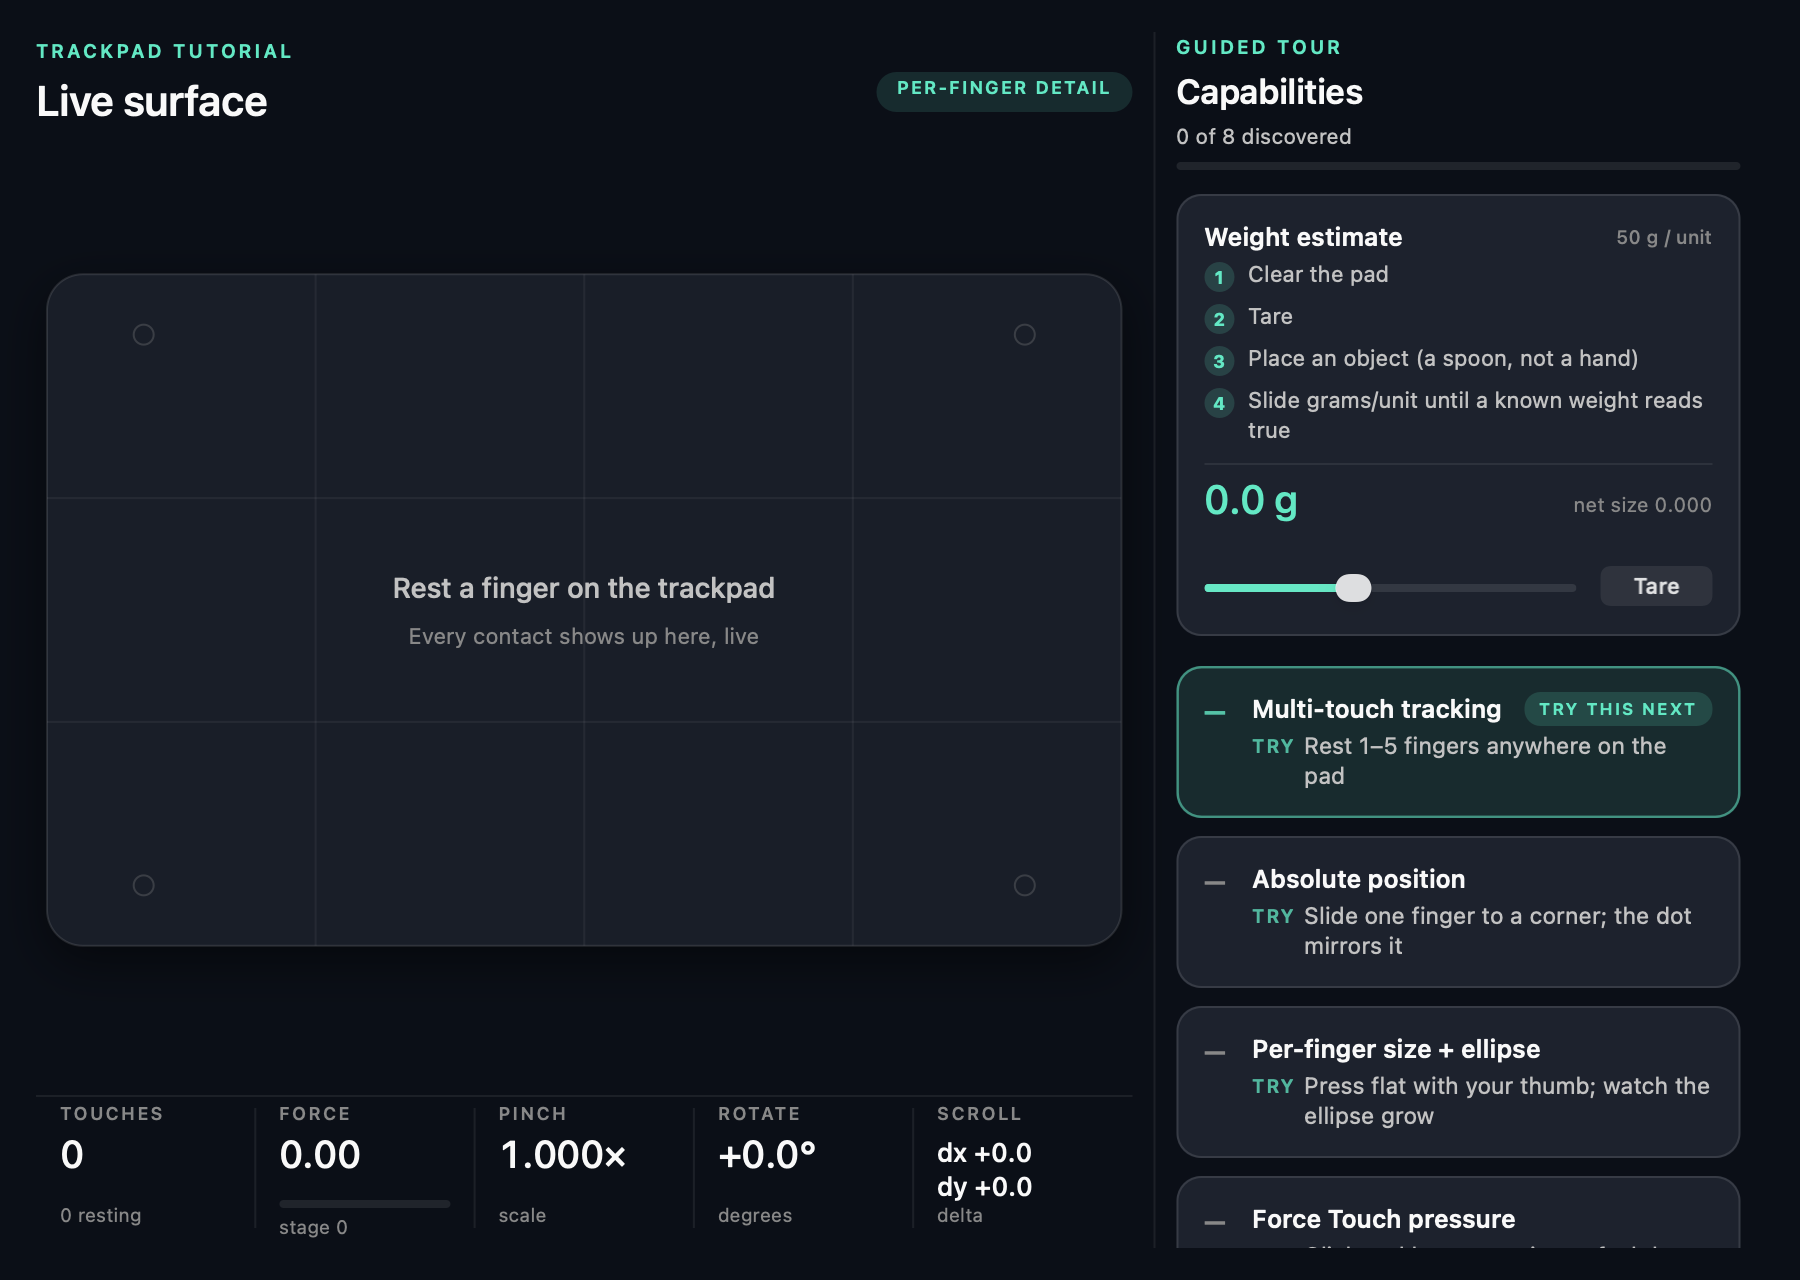
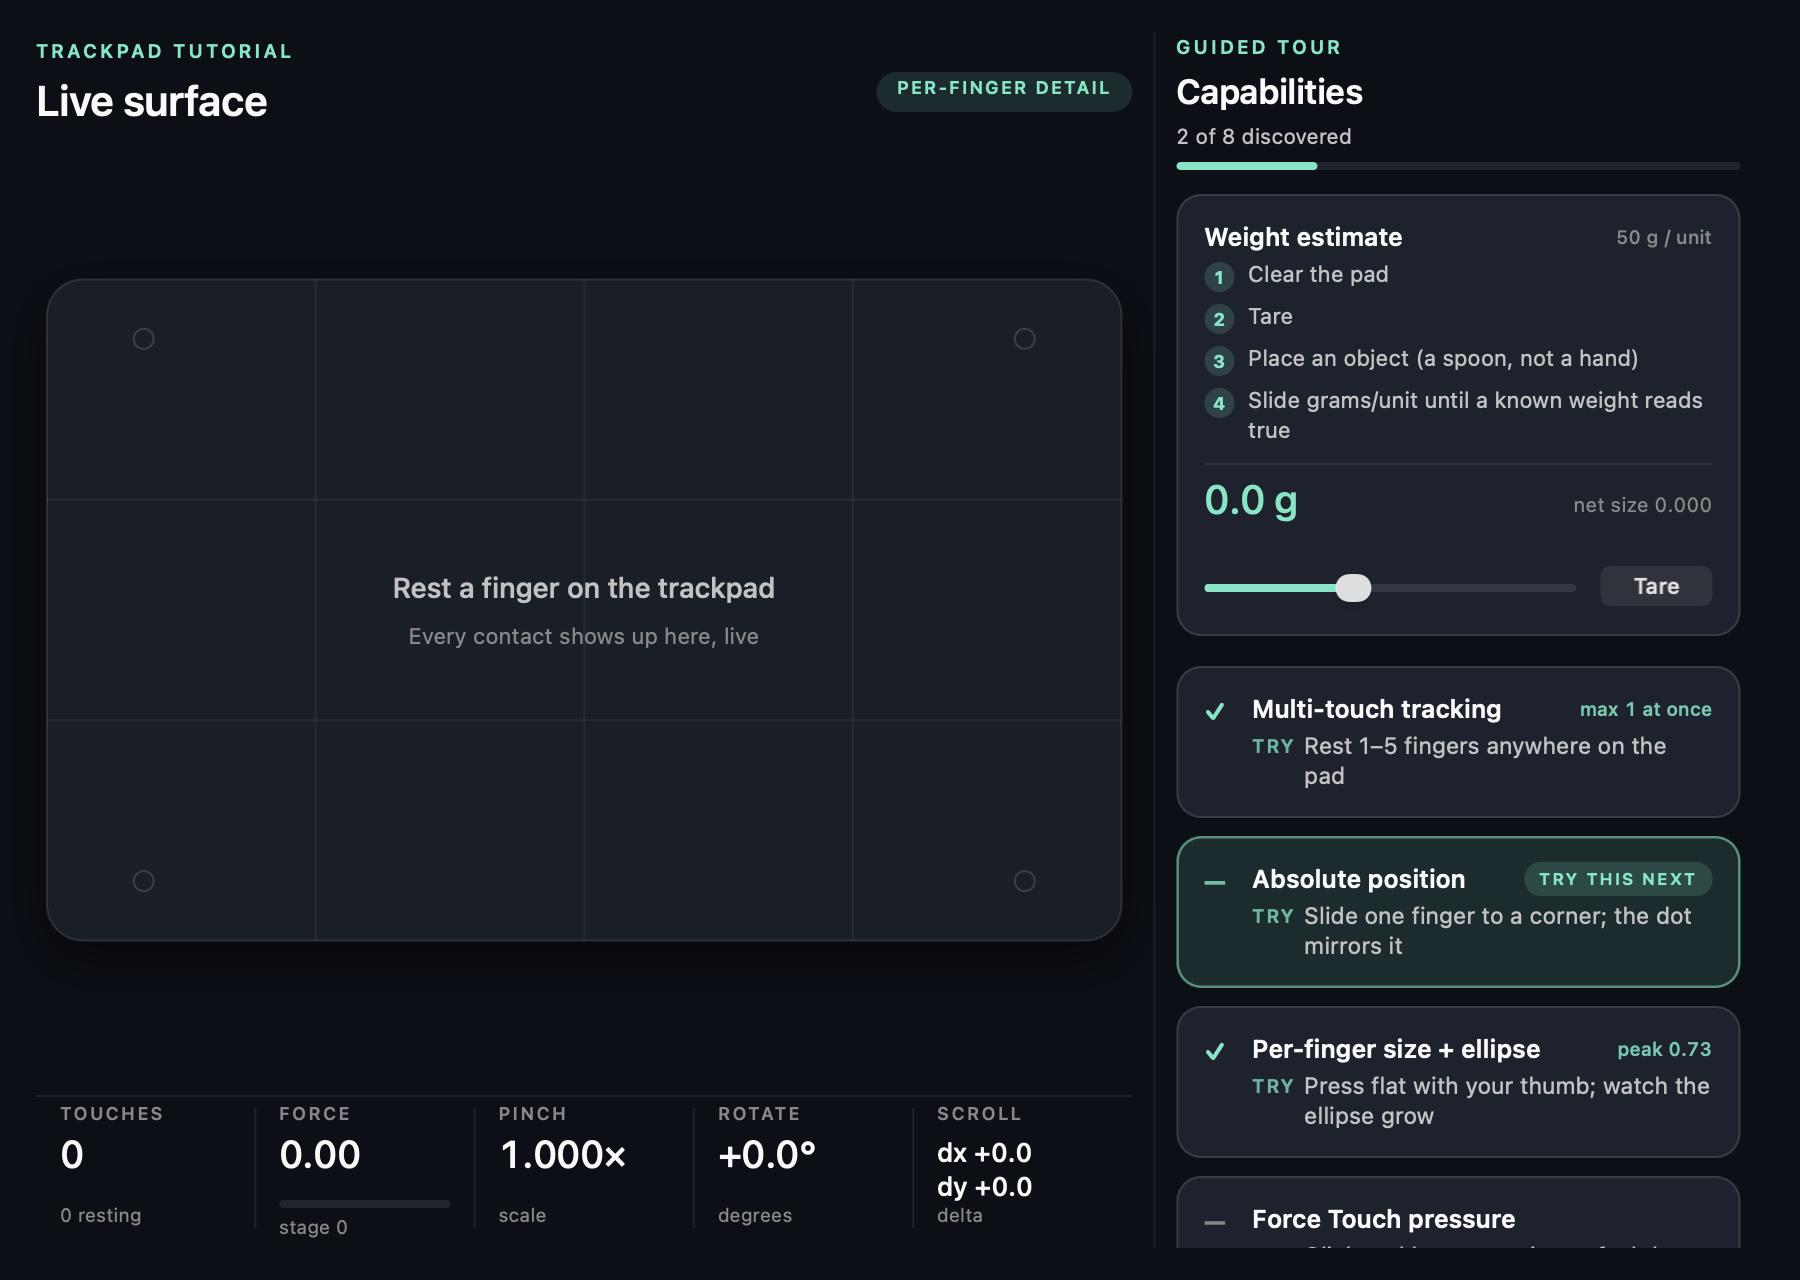
Landing page: tighter copy (EN+ZH), fresh screenshots, ⌘G AI redraw card
Claude-Session: https://claude.ai/code/session_01GxrdzJSWBv3dMFxuorTvym

diff --git a/docs/index.html b/docs/index.html
@@ -393,7 +393,7 @@ footer{border-top:1px solid var(--line);padding:56px 0 72px}
     <div>
       <p class="eyebrow" data-i18n="hero.eyebrow">macOS 13+ · Swift · AppKit · MIT</p>
       <h1><span data-i18n="hero.h1a">Your trackpad has been a drawing surface</span> <span class="l2" data-i18n="hero.h1b">this whole time.</span></h1>
-      <p class="lede sub" data-i18n="hero.lede">Trackpad Studio reads the raw multi-touch stream macOS keeps to itself: where every finger is, how hard it presses, how wide it lands. Draw at the exact spot your finger is touching — then poke around and find out what else the pad has been reporting all along.</p>
+      <p class="lede sub" data-i18n="hero.lede">macOS knows where every finger is, how hard it presses, how wide it lands — it just never shows you. Trackpad Studio reads that stream and turns the pad into a canvas: ink lands exactly where your finger touches.</p>
       <div class="cta">
         <a class="btn mint" href="#install" data-i18n="hero.cta1">Download for Mac</a>
         <a class="btn" href="https://github.com/ZaynJarvis/trackpad-studio" rel="noopener" data-i18n="hero.cta2">Read the source</a>
@@ -427,7 +427,7 @@ footer{border-top:1px solid var(--line);padding:56px 0 72px}
       <p class="eyebrow r" data-i18n="arg.eyebrow">The web only gets a mouse</p>
       <h2 data-i18n="arg.h2">Drag inside the box.</h2>
       <p class="sub" data-i18n="arg.p1">This is the whole of what a browser receives from your trackpad: one point, no pressure, relative motion. Put a second finger down — the counter stays at 1.</p>
-      <p class="sub" data-i18n="arg.p2">macOS knows far more, and it hands that over only to native code: per-finger absolute coordinates from NSTouch, contact ellipses and capacitive size from a private framework, pressure from Force Touch. That gap is the entire reason this app exists.</p>
+      <p class="sub" data-i18n="arg.p2">The real data goes only to native code: absolute per-finger coordinates, contact ellipses, Force Touch pressure. That gap is why this app exists.</p>
     </div>
     <div class="pad-demo frame">
       <span class="brk"></span>
@@ -457,7 +457,7 @@ footer{border-top:1px solid var(--line);padding:56px 0 72px}
       <p class="eyebrow" data-i18n="caps.eyebrow">Guided tour · 8 capabilities</p>
       <h2 data-i18n="caps.h2">What your trackpad can secretly do</h2>
     </div>
-    <p style="max-width:46ch;font-size:.94rem" data-i18n="caps.sub">The app ships a tutorial panel with one card per capability. Each stays dashed until you actually perform the gesture, then ticks over to ✓. Nothing is unlocked by reading.</p>
+    <p style="max-width:46ch;font-size:.94rem" data-i18n="caps.sub">One card per capability. Each stays dashed until you actually perform the gesture — nothing unlocks by reading.</p>
   </div>
 
   <div class="grid">
@@ -473,7 +473,7 @@ footer{border-top:1px solid var(--line);padding:56px 0 72px}
     <div class="weight">
       <div>
         <h3><span data-i18n="w.t">Weight estimate</span> <span class="tagx" data-i18n="w.tag">experimental</span></h3>
-        <p data-i18n="w.d">Capacitive contact size grows with how hard something presses, so the pad can be talked into behaving like a very rough scale. Clear the pad, tare it, set a spoon down, then slide grams-per-unit until a known weight reads true. It is a party trick with a plausible number attached, not a kitchen scale.</p>
+        <p data-i18n="w.d">Contact size grows with pressure, so the pad can be talked into being a very rough scale: tare, set something down, calibrate against a known weight. A party trick with a plausible number — not a kitchen scale.</p>
         <p data-i18n="w.d2">Per-finger data needs Input Monitoring permission. Without it the app drops the size-based features and everything else keeps working.</p>
       </div>
       <div class="gauge">
@@ -493,7 +493,7 @@ footer{border-top:1px solid var(--line);padding:56px 0 72px}
     <span class="zen-badge">ZEN</span>
     <div>
       <h3 data-i18n="zen.t">Zen mode freezes the pointer</h3>
-      <p data-i18n-html="zen.d">The moment a finger lands, the system cursor is frozen and hidden, so drawing never drags focus across your desktop. It comes back the instant the last finger lifts, the window loses focus, or you press <kbd>Esc</kbd>.</p>
+      <p data-i18n-html="zen.d">A finger lands: the cursor freezes and hides. It's back the instant the last finger lifts, focus moves, or you press <kbd>Esc</kbd>.</p>
     </div>
   </div>
 
@@ -508,7 +508,7 @@ footer{border-top:1px solid var(--line);padding:56px 0 72px}
         <path d="M27 25l3 3 3-3" stroke="#ffd06c" stroke-width="1.6" stroke-linecap="round" stroke-linejoin="round" fill="none"/>
       </svg>
       <h3 data-i18n="g1.t">Force sets the width</h3>
-      <p data-i18n="g1.d">A light touch is only a cursor. Press and the stroke thickens under your finger — Force Touch pressure drives the line weight directly.</p>
+      <p data-i18n="g1.d">A light touch is just a cursor; press, and pressure thickens the stroke under your finger.</p>
     </article>
 
     <article class="gcard">
@@ -520,7 +520,7 @@ footer{border-top:1px solid var(--line);padding:56px 0 72px}
         <path d="M14 12l-5-4M50 33l6 4" stroke="#9cd2ff" stroke-width="1.6" stroke-linecap="round"/>
       </svg>
       <h3 data-i18n="g2.t">Zoom and pan, one gesture</h3>
-      <p data-i18n="g2.d">Two fingers scale and move the canvas at the same time. Both are computed from the raw touch positions, which sidesteps macOS gesture exclusivity — you never have to pick one or the other.</p>
+      <p data-i18n="g2.d">Two fingers zoom and pan at once, computed from raw touches — no gesture exclusivity, no picking one or the other.</p>
     </article>
 
     <article class="gcard">
@@ -532,7 +532,7 @@ footer{border-top:1px solid var(--line);padding:56px 0 72px}
         <path d="M48 27l4 3-4 3" stroke="#6adfb5" stroke-width="2" stroke-linecap="round" stroke-linejoin="round" fill="none"/>
       </svg>
       <h3 data-i18n="g3.t">Three-finger drag draws</h3>
-      <p data-i18n="g3.d">Drop three fingers and the current tool commits a stroke without any pressure at all. The leftmost finger is the pen; the other two are just there to say you mean it.</p>
+      <p data-i18n="g3.d">Three fingers down and the current tool draws at full force. The leftmost finger is the pen.</p>
     </article>
 
     <article class="gcard">
@@ -543,7 +543,17 @@ footer{border-top:1px solid var(--line);padding:56px 0 72px}
         <circle cx="11" cy="32" r="7" fill="none" stroke="#ff8cbb" stroke-width="1.5" stroke-dasharray="3 3" opacity=".7"/>
       </svg>
       <h3 data-i18n="g4.t">Resting fingers stay out of it</h3>
-      <p data-i18n="g4.d">Thumbs and palms parked on the pad render as ghost rings and are filtered out of every gesture calculation, so leaning on the trackpad does not throw your zoom around.</p>
+      <p data-i18n="g4.d">Parked thumbs and palms show as ghost rings and are filtered out of every gesture — leaning on the pad breaks nothing.</p>
+    </article>
+
+    <article class="gcard">
+      <svg width="64" height="44" viewBox="0 0 64 44" aria-hidden="true">
+        <path d="M24 8l2.6 6.4L33 17l-6.4 2.6L24 26l-2.6-6.4L15 17l6.4-2.6z" fill="none" stroke="#8ff0c0" stroke-width="1.6" stroke-linejoin="round"/>
+        <path d="M43 24l1.7 4.3L49 30l-4.3 1.7L43 36l-1.7-4.3L37 30l4.3-1.7z" fill="#8ff0c0" opacity=".8"/>
+        <path d="M10 36c12-6 30-6 44-2" stroke="#8ff0c0" stroke-width="2" stroke-linecap="round" fill="none" opacity=".5"/>
+      </svg>
+      <h3 data-i18n="g5.t">⌘G hands it to AI</h3>
+      <p data-i18n="g5.d">One keystroke sends the board to codex + imagegen, which swap in a polished transparent repaint. One ⌘Z brings every stroke back.</p>
     </article>
   </div>
 
@@ -692,7 +702,7 @@ var T = {
 "hero.eyebrow":["macOS 13+ · Swift · AppKit · MIT","macOS 13+ · Swift · AppKit · MIT"],
 "hero.h1a":["Your trackpad has been a drawing surface","你的触控板一直是块画布"],
 "hero.h1b":["this whole time.","只是没人告诉你"],
-"hero.lede":["Trackpad Studio reads the raw multi-touch stream macOS keeps to itself: where every finger is, how hard it presses, how wide it lands. Draw at the exact spot your finger is touching — then poke around and find out what else the pad has been reporting all along.","Trackpad Studio 直接读取 macOS 自己留着用的原始多点触控数据：每根手指在哪、按得多重、接触面多大。手指落在哪，笔画就出现在哪——顺手还能翻出触控板这些年一直在上报、却从没人看过的其他信号。"],
+"hero.lede":["macOS knows where every finger is, how hard it presses, how wide it lands — it just never shows you. Trackpad Studio reads that stream and turns the pad into a canvas: ink lands exactly where your finger touches.","macOS 一直知道每根手指在哪、按得多重、接触面多大——只是从不给你看。Trackpad Studio 读出这条数据流，把触控板变成画布：手指落在哪，墨就落在哪。"],
 "hero.cta1":["Download for Mac","下载 Mac 版"],
 "hero.cta2":["Read the source","看源码"],
 "rail.free":["free","免费"],
@@ -706,7 +716,7 @@ var T = {
 "arg.eyebrow":["The web only gets a mouse","浏览器只拿得到一个鼠标"],
 "arg.h2":["Drag inside the box.","在框里拖一下试试"],
 "arg.p1":["This is the whole of what a browser receives from your trackpad: one point, no pressure, relative motion. Put a second finger down — the counter stays at 1.","浏览器能从触控板拿到的信息，全在这儿了：一个点、没有压力、只有相对位移。再放一根手指上去试试——计数还是 1。"],
-"arg.p2":["macOS knows far more, and it hands that over only to native code: per-finger absolute coordinates from NSTouch, contact ellipses and capacitive size from a private framework, pressure from Force Touch. That gap is the entire reason this app exists.","macOS 知道的比这多得多，但它只把这些交给原生代码：NSTouch 给出每根手指的绝对坐标，私有框架给出接触椭圆和电容面积，Force Touch 给出压力。这道鸿沟就是这个应用存在的全部理由。"],
+"arg.p2":["The real data goes only to native code: absolute per-finger coordinates, contact ellipses, Force Touch pressure. That gap is why this app exists.","真实数据只交给原生代码：每根手指的绝对坐标、接触椭圆、Force Touch 压力。这道鸿沟就是这个应用存在的理由。"],
 "demo.aria":["A scratch canvas showing what a browser can read from a pointer","一块演示用画布，展示浏览器能从指针拿到什么"],
 "demo.hint":["drag here","在这里拖动"],
 "demo.points":["Points","触点"],
@@ -718,7 +728,7 @@ var T = {
 
 "caps.eyebrow":["Guided tour · 8 capabilities","引导教程 · 8 项能力"],
 "caps.h2":["What your trackpad can secretly do","触控板背着你能做的事"],
-"caps.sub":["The app ships a tutorial panel with one card per capability. Each stays dashed until you actually perform the gesture, then ticks over to ✓. Nothing is unlocked by reading.","应用内置一块教程面板，一项能力一张卡片。你不真做出那个动作，卡片就一直是横线；做出来了才变成 ✓。光看是解锁不了的。"],
+"caps.sub":["One card per capability. Each stays dashed until you actually perform the gesture — nothing unlocks by reading.","一项能力一张卡片。不真做出那个动作，卡片就一直是横线——光看解锁不了。"],
 "c1.t":["Multi-touch tracking","多点追踪"],
 "c1.d":["Rest 1–5 fingers anywhere on the pad","1 到 5 根手指，随便放在板子上"],
 "c2.t":["Absolute position","绝对位置"],
@@ -737,22 +747,24 @@ var T = {
 "c8.d":["Park a thumb and leave it; it is counted, not obeyed","拇指搭着不动：它被数进去，但不参与手势"],
 "w.t":["Weight estimate","重量估算"],
 "w.tag":["experimental","实验性"],
-"w.d":["Capacitive contact size grows with how hard something presses, so the pad can be talked into behaving like a very rough scale. Clear the pad, tare it, set a spoon down, then slide grams-per-unit until a known weight reads true. It is a party trick with a plausible number attached, not a kitchen scale.","电容接触面积会随压力变大，所以触控板能被哄着当一杆很粗糙的秤用。清空板面、归零，放一把勺子上去，再拖动「克/单位」滑杆，直到某个已知重量读数对得上。它给的是一个看着靠谱的数字，是个把戏，不是厨房秤。"],
+"w.d":["Contact size grows with pressure, so the pad can be talked into being a very rough scale: tare, set something down, calibrate against a known weight. A party trick with a plausible number — not a kitchen scale.","接触面积随压力变大，触控板就能被哄着当杆糙秤：归零、放东西、按已知重量校准。是个带数字的把戏，不是厨房秤。"],
 "w.d2":["Per-finger data needs Input Monitoring permission. Without it the app drops the size-based features and everything else keeps working.","每指数据需要「输入监控」权限。不给也行，跟接触面积相关的几项会自动关掉，其余功能照常。"],
 "w.gauge":["net size 0.000","净面积 0.000"],
 
 "gest.eyebrow":["On the board","在画板上"],
 "gest.h2":["Fingers on the pad, cursor out of the way","手指落在板上，光标靠边站"],
 "zen.t":["Zen mode freezes the pointer","禅模式会把光标冻住"],
-"zen.d":["The moment a finger lands, the system cursor is frozen and hidden, so drawing never drags focus across your desktop. It comes back the instant the last finger lifts, the window loses focus, or you press <kbd>Esc</kbd>.","手指一落下，系统光标就被冻住并隐藏，画画时不会把焦点拖得满桌面跑。最后一根手指抬起、窗口失去焦点，或者你按 <kbd>Esc</kbd>，它立刻回来。"],
+"zen.d":["A finger lands: the cursor freezes and hides. It's back the instant the last finger lifts, focus moves, or you press <kbd>Esc</kbd>.","手指一落，光标就冻结隐藏；最后一根手指抬起、窗口失焦或按 <kbd>Esc</kbd>，立刻恢复。"],
 "g1.t":["Force sets the width","力度决定粗细"],
-"g1.d":["A light touch is only a cursor. Press and the stroke thickens under your finger — Force Touch pressure drives the line weight directly.","轻轻一碰只是个光标。压下去，笔画就在手指底下变粗——线宽直接由 Force Touch 压力驱动。"],
+"g1.d":["A light touch is just a cursor; press, and pressure thickens the stroke under your finger.","轻触只是光标；压下去，压力直接把笔画变粗。"],
 "g2.t":["Zoom and pan, one gesture","缩放和平移一气呵成"],
-"g2.d":["Two fingers scale and move the canvas at the same time. Both are computed from the raw touch positions, which sidesteps macOS gesture exclusivity — you never have to pick one or the other.","两根手指同时完成缩放和移动。两者都是从原始触点位置自己算出来的，绕开了 macOS 的手势互斥，不用在缩放和平移之间二选一。"],
+"g2.d":["Two fingers zoom and pan at once, computed from raw touches — no gesture exclusivity, no picking one or the other.","两指同时缩放平移，直接从原始触点算出，绕开手势互斥，不用二选一。"],
 "g3.t":["Three-finger drag draws","三指拖动即落笔"],
-"g3.d":["Drop three fingers and the current tool commits a stroke without any pressure at all. The leftmost finger is the pen; the other two are just there to say you mean it.","三根手指按上去，当前工具不需要任何压力就开始画。最左边那根是笔尖，另外两根只是用来表明你是认真的。"],
+"g3.d":["Three fingers down and the current tool draws at full force. The leftmost finger is the pen.","三指按下，当前工具满力作画；最左那根是笔尖。"],
 "g4.t":["Resting fingers stay out of it","静置的手指不掺和"],
-"g4.d":["Thumbs and palms parked on the pad render as ghost rings and are filtered out of every gesture calculation, so leaning on the trackpad does not throw your zoom around.","搭在板上的拇指和手掌会画成幽灵圆环，并从所有手势计算里剔除，所以手压着触控板也不会把画面缩放弄乱。"],
+"g4.d":["Parked thumbs and palms show as ghost rings and are filtered out of every gesture — leaning on the pad breaks nothing.","搭着的拇指手掌画成幽灵圆环，从所有手势里剔除——手压着板也不乱。"],
+"g5.t":["⌘G hands it to AI","⌘G 交给 AI 重画"],
+"g5.d":["One keystroke sends the board to codex + imagegen, which swap in a polished transparent repaint. One ⌘Z brings every stroke back.","一个快捷键把画板交给 codex + imagegen，换回一张精修的透明底重绘；⌘Z 一次全部撤回。"],
 "tools.aria":["The board toolbar: pen, line, rectangle, ellipse and arrow on keys 1 to 5, plus text on T","画板工具栏：数字键 1 到 5 对应画笔、直线、矩形、椭圆和箭头，T 对应文字"],
 "tools.note":["Keys 1–5 pick pen, line, rectangle, ellipse and arrow. <kbd>T</kbd> drops a text label that holds the same on-screen size however far you zoom in.","数字键 1–5 切换画笔、直线、矩形、椭圆和箭头。<kbd>T</kbd> 放下一段文字，无论画布放大到多少倍，它在屏幕上的字号都不变。"],
 
